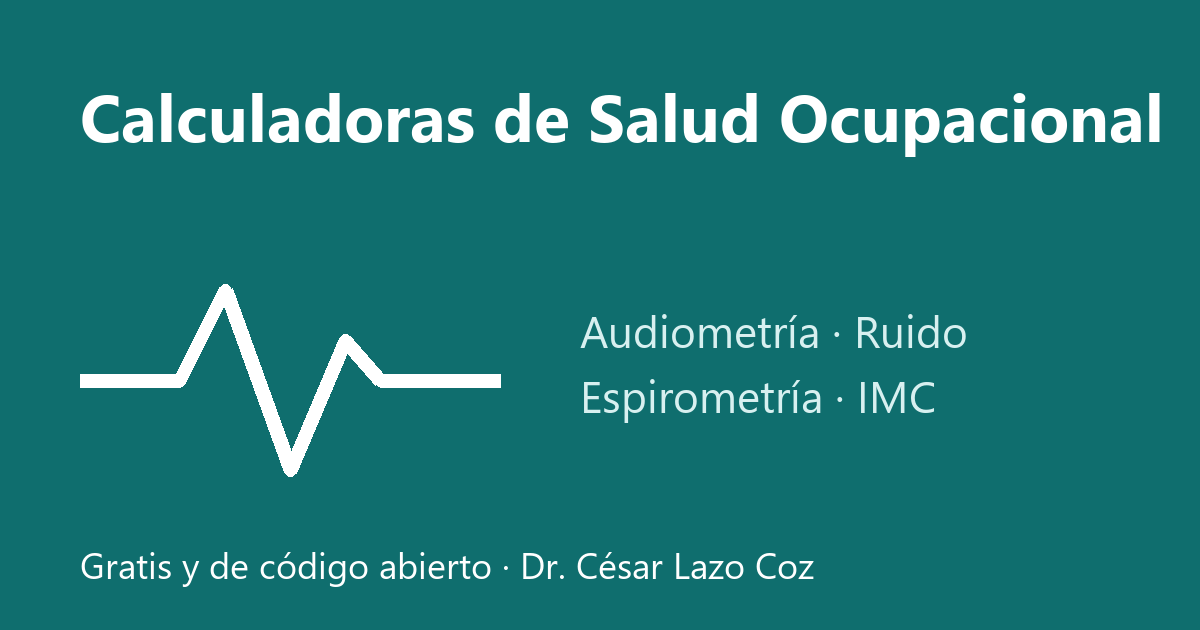
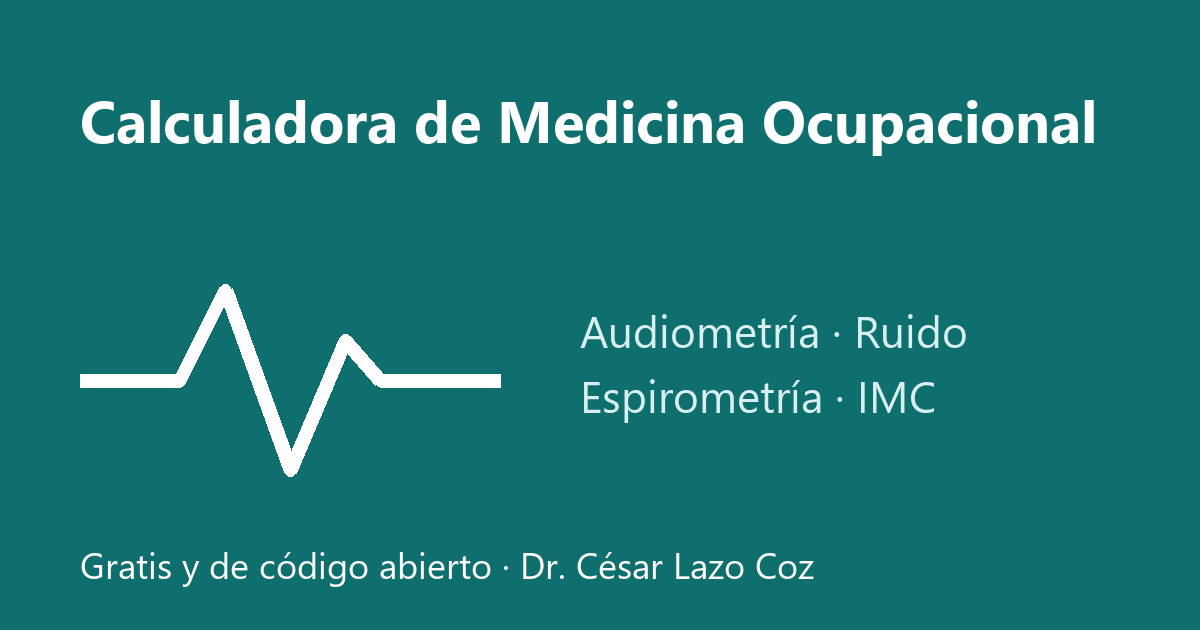
Título del sitio: Calculadora de Medicina Ocupacional

Changed region(s): [[0.0617, 0.1508, 0.9867, 0.2413]]

diff --git a/index.html b/index.html
@@ -3,7 +3,7 @@
 <head>
 <meta charset="utf-8">
 <meta name="viewport" content="width=device-width, initial-scale=1">
-<title>Calculadoras de Salud Ocupacional gratis | Audiometría y ruido</title>
+<title>Calculadora de Medicina Ocupacional | Audiometría, ruido, espirometría</title>
 <meta name="description" content="Calculadoras gratis de medicina ocupacional: audiometría OMS y STS, dosis de ruido, espirometría ERS/ATS 2022 e IMC. Con la fuente de cada fórmula.">
 <meta name="author" content="Dr. César Lazo Coz">
 <meta name="robots" content="index, follow, max-image-preview:large, max-snippet:-1">
@@ -13,8 +13,8 @@
 <meta name="theme-color" content="#0f6e6e">
 <meta property="og:type" content="website">
 <meta property="og:locale" content="es_PE">
-<meta property="og:site_name" content="Calculadoras de Salud Ocupacional">
-<meta property="og:title" content="Calculadoras de Salud Ocupacional gratis | Audiometría y ruido">
+<meta property="og:site_name" content="Calculadora de Medicina Ocupacional">
+<meta property="og:title" content="Calculadora de Medicina Ocupacional | Audiometría, ruido, espirometría">
 <meta property="og:description" content="Calculadoras gratis de medicina ocupacional: audiometría OMS y STS, dosis de ruido, espirometría ERS/ATS 2022 e IMC. Con la fuente de cada fórmula.">
 <meta property="og:url" content="https://lazocozcesar-afk.github.io/calculadoras-salud-ocupacional/">
 <meta property="og:image" content="https://lazocozcesar-afk.github.io/calculadoras-salud-ocupacional/assets/og.png">
@@ -29,7 +29,7 @@
   {
    "@type": "WebSite",
    "@id": "https://lazocozcesar-afk.github.io/calculadoras-salud-ocupacional/#sitio",
-   "name": "Calculadoras de Salud Ocupacional",
+   "name": "Calculadora de Medicina Ocupacional",
    "url": "https://lazocozcesar-afk.github.io/calculadoras-salud-ocupacional/",
    "inLanguage": "es",
    "author": {
@@ -50,7 +50,7 @@
   {
    "@type": "WebApplication",
    "@id": "https://lazocozcesar-afk.github.io/calculadoras-salud-ocupacional/#app",
-   "name": "Calculadoras de Salud Ocupacional",
+   "name": "Calculadora de Medicina Ocupacional",
    "url": "https://lazocozcesar-afk.github.io/calculadoras-salud-ocupacional/",
    "description": "Calculadoras gratis de medicina ocupacional: audiometría OMS y STS, dosis de ruido, espirometría ERS/ATS 2022 e IMC. Con la fuente de cada fórmula.",
    "applicationCategory": "HealthApplication",
@@ -117,7 +117,7 @@
 </head>
 <body>
 <header>
-  <h1>Calculadoras de Salud Ocupacional</h1>
+  <h1>Calculadora de Medicina Ocupacional</h1>
   <p><strong>Desarrollado por el Dr. César Lazo Coz</strong> · Actualizado el 2026-11-07</p>
   <p>Gratuitas y de código abierto, con la fuente de cada fórmula. Los datos se calculan en tu navegador y no se envían a ningún servidor.</p>
   <nav role="tablist">

diff --git a/audiometria/index.html b/audiometria/index.html
@@ -13,7 +13,7 @@
 <meta name="theme-color" content="#0f6e6e">
 <meta property="og:type" content="website">
 <meta property="og:locale" content="es_PE">
-<meta property="og:site_name" content="Calculadoras de Salud Ocupacional">
+<meta property="og:site_name" content="Calculadora de Medicina Ocupacional">
 <meta property="og:title" content="Calculadora de audiometría: grado OMS, STS y % AAO | Gratis">
 <meta property="og:description" content="Calcula gratis el grado de pérdida auditiva OMS 2021, el STS de OSHA y el % de deficiencia auditiva AAO 1979 a partir del audiograma.">
 <meta property="og:url" content="https://lazocozcesar-afk.github.io/calculadoras-salud-ocupacional/audiometria/">
@@ -104,7 +104,7 @@
     {
      "@type": "ListItem",
      "position": 1,
-     "name": "Calculadoras de Salud Ocupacional",
+     "name": "Calculadora de Medicina Ocupacional",
      "item": "https://lazocozcesar-afk.github.io/calculadoras-salud-ocupacional/"
     },
     {
@@ -121,7 +121,7 @@
 </head>
 <body>
 <header>
-  <p class="migas"><a href="https://lazocozcesar-afk.github.io/calculadoras-salud-ocupacional/">Calculadoras de Salud Ocupacional</a></p>
+  <p class="migas"><a href="https://lazocozcesar-afk.github.io/calculadoras-salud-ocupacional/">Calculadora de Medicina Ocupacional</a></p>
   <h1>Calculadora de audiometría ocupacional</h1>
   <p><strong>Desarrollado por el Dr. César Lazo Coz</strong> · Actualizado el 2026-11-07</p>
   <p>Ingresa el audiograma y obtén al instante el grado de pérdida auditiva según la OMS, el STS frente a la línea base y el porcentaje de deficiencia monoaural y binaural. Los datos se calculan en tu navegador y no se envían a ningún servidor.</p>

diff --git a/espirometria/index.html b/espirometria/index.html
@@ -13,7 +13,7 @@
 <meta name="theme-color" content="#0f6e6e">
 <meta property="og:type" content="website">
 <meta property="og:locale" content="es_PE">
-<meta property="og:site_name" content="Calculadoras de Salud Ocupacional">
+<meta property="og:site_name" content="Calculadora de Medicina Ocupacional">
 <meta property="og:title" content="Interpretación de espirometría ERS/ATS 2022 por z-score">
 <meta property="og:description" content="Interpreta gratis una espirometría por z-score (ERS/ATS 2022): obstrucción, posible restricción o PRISm, gravedad y respuesta broncodilatadora.">
 <meta property="og:url" content="https://lazocozcesar-afk.github.io/calculadoras-salud-ocupacional/espirometria/">
@@ -104,7 +104,7 @@
     {
      "@type": "ListItem",
      "position": 1,
-     "name": "Calculadoras de Salud Ocupacional",
+     "name": "Calculadora de Medicina Ocupacional",
      "item": "https://lazocozcesar-afk.github.io/calculadoras-salud-ocupacional/"
     },
     {
@@ -121,7 +121,7 @@
 </head>
 <body>
 <header>
-  <p class="migas"><a href="https://lazocozcesar-afk.github.io/calculadoras-salud-ocupacional/">Calculadoras de Salud Ocupacional</a></p>
+  <p class="migas"><a href="https://lazocozcesar-afk.github.io/calculadoras-salud-ocupacional/">Calculadora de Medicina Ocupacional</a></p>
   <h1>Interpretación de espirometría ERS/ATS 2022</h1>
   <p><strong>Desarrollado por el Dr. César Lazo Coz</strong> · Actualizado el 2026-11-07</p>
   <p>Ingresa los z-scores de FEV1/FVC, FVC y FEV1 y obtén el patrón espirométrico, su gravedad y si la respuesta al broncodilatador es significativa. Los datos se calculan en tu navegador y no se envían a ningún servidor.</p>

diff --git a/ruido/index.html b/ruido/index.html
@@ -13,7 +13,7 @@
 <meta name="theme-color" content="#0f6e6e">
 <meta property="og:type" content="website">
 <meta property="og:locale" content="es_PE">
-<meta property="og:site_name" content="Calculadoras de Salud Ocupacional">
+<meta property="og:site_name" content="Calculadora de Medicina Ocupacional">
 <meta property="og:title" content="Calculadora de dosis de ruido y TWA 8 horas (NIOSH, OSHA)">
 <meta property="og:description" content="Calcula gratis la dosis de ruido, el TWA de 8 horas y la atenuación del protector (NRR) con los criterios NIOSH 85 dB/3 dB y OSHA 90 dB/5 dB.">
 <meta property="og:url" content="https://lazocozcesar-afk.github.io/calculadoras-salud-ocupacional/ruido/">
@@ -104,7 +104,7 @@
     {
      "@type": "ListItem",
      "position": 1,
-     "name": "Calculadoras de Salud Ocupacional",
+     "name": "Calculadora de Medicina Ocupacional",
      "item": "https://lazocozcesar-afk.github.io/calculadoras-salud-ocupacional/"
     },
     {
@@ -121,7 +121,7 @@
 </head>
 <body>
 <header>
-  <p class="migas"><a href="https://lazocozcesar-afk.github.io/calculadoras-salud-ocupacional/">Calculadoras de Salud Ocupacional</a></p>
+  <p class="migas"><a href="https://lazocozcesar-afk.github.io/calculadoras-salud-ocupacional/">Calculadora de Medicina Ocupacional</a></p>
   <h1>Calculadora de dosis de ruido ocupacional</h1>
   <p><strong>Desarrollado por el Dr. César Lazo Coz</strong> · Actualizado el 2026-11-07</p>
   <p>Suma varias tareas de la jornada y obtén la dosis de ruido en %, el TWA de 8 horas y el nivel estimado con protector auditivo. Los datos se calculan en tu navegador y no se envían a ningún servidor.</p>

diff --git a/imc/index.html b/imc/index.html
@@ -13,7 +13,7 @@
 <meta name="theme-color" content="#0f6e6e">
 <meta property="og:type" content="website">
 <meta property="og:locale" content="es_PE">
-<meta property="og:site_name" content="Calculadoras de Salud Ocupacional">
+<meta property="og:site_name" content="Calculadora de Medicina Ocupacional">
 <meta property="og:title" content="Calculadora de IMC y perímetro abdominal (OMS y MINSA)">
 <meta property="og:description" content="Calcula gratis el IMC con la clasificación de la OMS y el riesgo por perímetro abdominal según la guía técnica del MINSA (RM 184-2012).">
 <meta property="og:url" content="https://lazocozcesar-afk.github.io/calculadoras-salud-ocupacional/imc/">
@@ -96,7 +96,7 @@
     {
      "@type": "ListItem",
      "position": 1,
-     "name": "Calculadoras de Salud Ocupacional",
+     "name": "Calculadora de Medicina Ocupacional",
      "item": "https://lazocozcesar-afk.github.io/calculadoras-salud-ocupacional/"
     },
     {
@@ -113,7 +113,7 @@
 </head>
 <body>
 <header>
-  <p class="migas"><a href="https://lazocozcesar-afk.github.io/calculadoras-salud-ocupacional/">Calculadoras de Salud Ocupacional</a></p>
+  <p class="migas"><a href="https://lazocozcesar-afk.github.io/calculadoras-salud-ocupacional/">Calculadora de Medicina Ocupacional</a></p>
   <h1>Calculadora de IMC y perímetro abdominal</h1>
   <p><strong>Desarrollado por el Dr. César Lazo Coz</strong> · Actualizado el 2026-11-07</p>
   <p>Ingresa peso, talla y perímetro abdominal para obtener el IMC, su categoría OMS y el riesgo por perímetro abdominal del MINSA. Los datos se calculan en tu navegador y no se envían a ningún servidor.</p>

diff --git a/herramientas/generar_paginas.py b/herramientas/generar_paginas.py
@@ -14,7 +14,7 @@ RAIZ = Path(__file__).resolve().parent.parent
 BASE = "https://lazocozcesar-afk.github.io/calculadoras-salud-ocupacional/"
 REPO = "https://github.com/lazocozcesar-afk/calculadoras-salud-ocupacional"
 HOY = date.today().isoformat()
-SITIO = "Calculadoras de Salud Ocupacional"
+SITIO = "Calculadora de Medicina Ocupacional"
 
 AUTOR = {
     "@type": "Person",
@@ -248,7 +248,7 @@ PAGINAS = [
 ]
 
 PORTADA = {
-    "titulo": "Calculadoras de Salud Ocupacional gratis | Audiometría y ruido",
+    "titulo": "Calculadora de Medicina Ocupacional | Audiometría, ruido, espirometría",
     "descripcion": "Calculadoras gratis de medicina ocupacional: audiometría OMS y STS, dosis de ruido, espirometría ERS/ATS 2022 e IMC. Con la fuente de cada fórmula.",
     "contenido": """
     <h2>Calculadoras para el examen médico ocupacional</h2>
